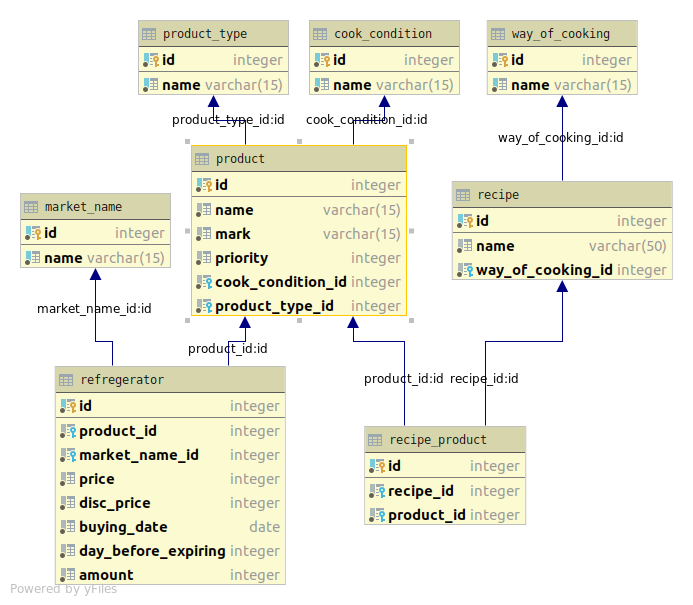
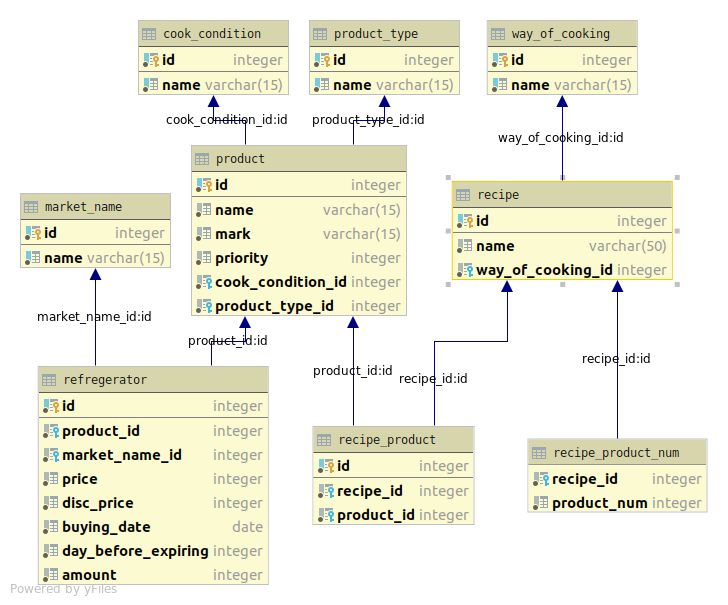
-issue #2 fixed

diff --git a/lab3/refregerator_manager.py b/lab3/refregerator_manager.py
@@ -221,6 +221,14 @@ def add_into_table(cursor, rw, table_name, fields, min_av, max_av, bounds=None):
     pass
 
 
+# ------------------------------ run sql file --------------------------------
+def run_sql(addr):
+    sql_file = open(addr, 'r')
+    sql_code = ""
+    for line in sql_file.readlines(): sql_code += line
+    cursor.execute(sql_code)
+
+
 # ------------------------------ PARSING METHODS ----------------------------
 def store_json(path):
     """
@@ -374,6 +382,7 @@ if __name__ == '__main__':
     # -------------------------- commit or not commit changes ---------------------------
     commit_allowed = choose_variant_from_dict(title="COMMIT CHANGES?", variants={0: 'no', 1: 'yes'})
     if commit_allowed:
+        run_sql("../lab2/upd_rec_prod_num.sql")
         conn.commit()
     cursor.close()
     conn.close()
